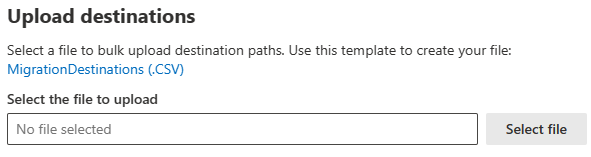
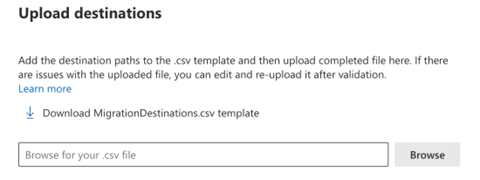
updated with info for the changes.
edits.

diff --git a/migration/mm-box-step4-review-destinations.md b/migration/mm-box-step4-review-destinations.md
@@ -39,20 +39,27 @@ If a destination is missing on a single user, highlight the row and update the v
 
 3. Select **Save path**.
 
+
 ## Upload destinations using a CSV file
 
-If you have many destinations to edit, you can choose to upload a bulk destinations CSV file.  The *MigrationDestinations.csv* file consists of six columns populated with your users' data for reference. The only field you can update is the destination path.  
+If you have many destinations to edit, you can choose to upload a bulk destinations CSV file.  Download the *MigrationDestinations.csv* file template to your computer and enter your destinations. The template lists all migration tasks that have never been run, and you can add to or modify the last column “Destination path”. Then save your file as a .csv file using any name you wish. 
+
+
+![upload destinations for Google accounts bulk](media/mm-google-bulk-upload-destination-panel.png)
+
+1. From the Migrations tab, select **Upload destinations** from the menu bar.
+2. Select the file to upload with your destinations.
+3. The destinations will be validated upon uploading. </br>
+- The validation process may take a while and can be skipped, but we strongly recommend you complete the validation.
+- A validation report is generated if issues are found. Download the report to fix the issues based on the error message provided. Then re-upload the fixed destinations to pass the validation.
+
+4. Select **Save**.  
 
 >[!Important]
->Review your destination CSV file before you upload it to make sure you have entered the values in correctly.  The destination file is not validated, and once you have migrated to these destinations it cannot be undone.
+>Rows with vacant a “destination path” will be skipped in the validation process.  
 
-1. Download the *MigrationDestinations.csv* file template to your computer and enter your destinations. Save your file as a .csv file using any name you prefer. 
-2. Edit the file with the destinations. 
-3. Review your destination CSV file before you upload it to make sure you have entered the values in correctly. This overwrites any existing values.
-4. After you have edited the file, select **Upload destinations** from the menu bar.
-5. Select the file to upload with your destinations. Select **Save**. 
 
-![upload destinations for Box accounts bulk](media/mm-box-bulk-upload-destination-panel.png)
+## Go to [**Step 5: Map identities**](mm-google-step5-map-identities.md)
 
 
 ## [**Step 5: Map identities**](mm-box-step5-map-identities.md)

diff --git a/migration/mm-dropbox-step4-review-destinations.md b/migration/mm-dropbox-step4-review-destinations.md
@@ -40,20 +40,27 @@ If a destination is missing on a single user, highlight the row and update the v
 3. Select **Save path**.
 
 
+
 ## Upload destinations using a CSV file
 
-If you have many destinations to edit, you can choose to upload a bulk destinations CSV file.  Download the *MigrationDestinations.csv* file template to your computer and enter your destinations. Save your file as a .csv file using any name you wish. 
+If you have many destinations to edit, you can choose to upload a bulk destinations CSV file.  Download the *MigrationDestinations.csv* file template to your computer and enter your destinations. The template lists all migration tasks that have never been run, and you can add to or modify the last column “Destination path”. Then save your file as a .csv file using any name you wish. 
 
 
-![upload destinations for Dropbox accounts bulk](media/mm-google-bulk-upload-destination-panel.png)
+![upload destinations for Google accounts bulk](media/mm-google-bulk-upload-destination-panel.png)
 
 1. From the Migrations tab, select **Upload destinations** from the menu bar.
 2. Select the file to upload with your destinations.
+3. The destinations will be validated upon uploading. </br>
+- The validation process may take a while and can be skipped, but we strongly recommend you complete the validation.
+- A validation report is generated if issues are found. Download the report to fix the issues based on the error message provided. Then re-upload the fixed destinations to pass the validation.
+
 4. Select **Save**.  
 
-
 >[!Important]
->Review your destination CSV file before you upload it to make sure you have entered the values in correctly.  The destination file is not validated, and once you have migrated to these destinations it cannot be undone.
+>Rows with vacant a “destination path” will be skipped in the validation process.  
+
+
+## Go to [**Step 5: Map identities**](mm-google-step5-map-identities.md)
 
 
 ## [**Step 5: Map identities**](mm-dropbox-step5-map-identities.md)

diff --git a/migration/mm-egnyte-step4-review-destinations.md b/migration/mm-egnyte-step4-review-destinations.md
@@ -41,18 +41,27 @@ If a destination is missing on a single user, highlight the row and update the v
 3. Select **Save path**.
 
 
+
 ## Upload destinations using a CSV file
 
-If you have many destinations to edit, you can choose to upload a bulk destinations CSV file.  Download the *MigrationDestinations.csv* file template to your computer and enter your destinations. Save your file as a .csv file using any name you wish. 
+If you have many destinations to edit, you can choose to upload a bulk destinations CSV file.  Download the *MigrationDestinations.csv* file template to your computer and enter your destinations. The template lists all migration tasks that have never been run, and you can add to or modify the last column “Destination path”. Then save your file as a .csv file using any name you wish. 
+
 
 ![upload destinations for Google accounts bulk](media/mm-google-bulk-upload-destination-panel.png)
 
 1. From the Migrations tab, select **Upload destinations** from the menu bar.
 2. Select the file to upload with your destinations.
+3. The destinations will be validated upon uploading. </br>
+- The validation process may take a while and can be skipped, but we strongly recommend you complete the validation.
+- A validation report is generated if issues are found. Download the report to fix the issues based on the error message provided. Then re-upload the fixed destinations to pass the validation.
+
 4. Select **Save**.  
 
 >[!Important]
->Review your destination CSV file before you upload it to make sure you have entered the values in correctly.  The destination file is not validated, and once you have migrated to these destinations it cannot be undone.
+>Rows with vacant a “destination path” will be skipped in the validation process.  
+
+
+## Go to [**Step 5: Map identities**](mm-google-step5-map-identities.md)
 
 
 ## [**Step 5: Map identities**](mm-egnyte-step5-map-identities.md)

diff --git a/migration/mm-google-step4-review-destinations.md b/migration/mm-google-step4-review-destinations.md
@@ -42,18 +42,21 @@ If a destination is missing on a single user, highlight the row and update the v
 
 ## Upload destinations using a CSV file
 
-If you have many destinations to edit, you can choose to upload a bulk destinations CSV file.  Download the *MigrationDestinations.csv* file template to your computer and enter your destinations. Save your file as a .csv file using any name you wish. 
+If you have many destinations to edit, you can choose to upload a bulk destinations CSV file.  Download the *MigrationDestinations.csv* file template to your computer and enter your destinations. The template lists all migration tasks that have never been run, and you can add to or modify the last column “Destination path”. Then save your file as a .csv file using any name you wish. 
 
 
 ![upload destinations for Google accounts bulk](media/mm-google-bulk-upload-destination-panel.png)
 
 1. From the Migrations tab, select **Upload destinations** from the menu bar.
 2. Select the file to upload with your destinations.
+3. The destinations will be validated upon uploading. </br>
+- The validation process may take a while and can be skipped, but we strongly recommend you complete the validation.
+- A validation report is generated if issues are found. Download the report to fix the issues based on the error message provided. Then re-upload the fixed destinations to pass the validation.
+
 4. Select **Save**.  
 
-
 >[!Important]
->Review your destination CSV file before you upload it to make sure you have entered the values in correctly.  The destination file is not validated, and once you have migrated to these destinations it cannot be undone.
+>Rows with vacant a “destination path” will be skipped in the validation process.  
 
 
 ## Go to [**Step 5: Map identities**](mm-google-step5-map-identities.md)
